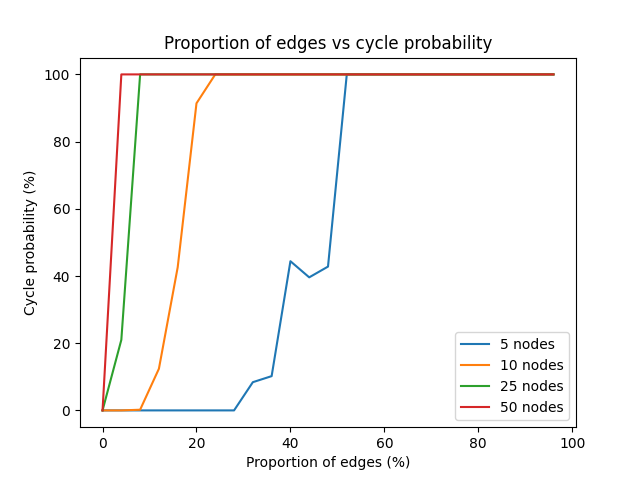
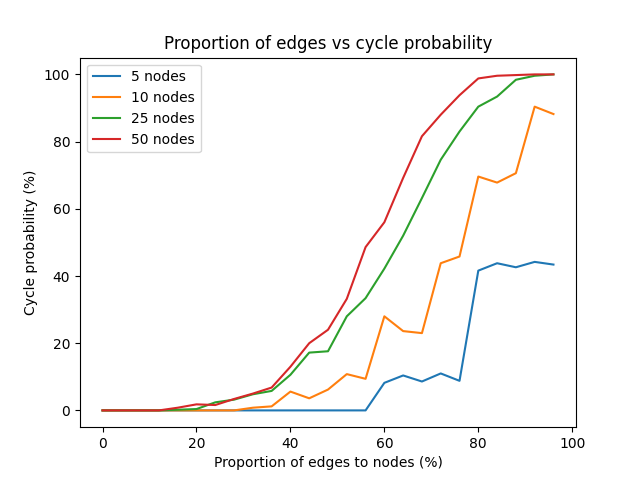
fixed experiment 2 proportions

diff --git a/report.tex b/report.tex
@@ -41,9 +41,7 @@ Experiment 2 examines the probability of a graph being connected as the proporti
 
 We compute the approximate connected probability for a graph of $e$ edges and $n$ nodes by generating 500 random graphs with $e$ edges and $n$ nodes and determining what percentage of those graphs are connected.
 
-This process is conducted for graphs with 5, 10, 25, and 50 nodes at different proportions of edges. Specifically, we start with 0 edges and gradually increase to the maximum number of unique edges for the node count ($\sum_{i=0}^{n-1}i$) in 4\% steps, with 100\% being the maximum number of edges.
-
-The result is then graphed as shown in Figure \ref{fig:edges_vs_connected} below.
+This process is conducted for graphs with 5, 10, 25, and 50 nodes at different proportions of edges. Specifically, we start with 0 edges and gradually increase to 500\% the node count in 20\% increments. The result is then graphed as shown in Figure \ref{fig:edges_vs_connected} below.
 
 \begin{figure}[H]
     \centering
@@ -52,9 +50,11 @@ The result is then graphed as shown in Figure \ref{fig:edges_vs_connected} below
     \label{fig:edges_vs_connected}
 \end{figure}
 
-As seen in Figure \ref{fig:edges_vs_connected}, each graph size sits at a 0\% chance of connectedness before rapidly increasing and eventually reaching a 100\% probability of being connected; but the transitions take place at different edge proportions.
+% this is wrong v will rewrite
 
-This is because the number of edges required to make connectedness possible grows linearly with the number of nodes, while the maximum number of unique edges grows quadratically. Specifically, an undirected graph of $n$ nodes with no self-loops requires only $n - 1$ unique edges to make connectedness possible, but can have a maximum of $\frac{(n - 1) \cdot n}{2}$ unique edges.
+% As seen in Figure \ref{fig:edges_vs_connected}, each graph size sits at a 0\% chance of connectedness before rapidly increasing and eventually reaching a 100\% probability of being connected; but the transitions take place at different edge proportions.
+
+% This is because the number of edges required to make connectedness possible grows linearly with the number of nodes, while the maximum number of unique edges grows quadratically. Specifically, an undirected graph of $n$ nodes with no self-loops requires only $n - 1$ unique edges to make connectedness possible, but can have a maximum of $\frac{(n - 1) \cdot n}{2}$ unique edges.
 
 \section{Part 2}
 

diff --git a/experiment_1.py b/experiment_1.py
@@ -1,31 +1,10 @@
 import matplotlib.pyplot as plot
 from experiment_2 import average_probabilities
-from graph import Graph, has_cycle, create_random_graph
+from graph import has_cycle
 
 NODE_CASES = [5, 10, 25, 50]
 STEPS = 25
 AVGS = 500
-
-def cycle_probability(num_nodes, proportions, avgs):
-    maximum_edges = num_nodes
-    probabilities = []
-
-    for proportion in proportions:
-        edges = int(proportion / 100 * maximum_edges)
-        outcomes = []
-
-        for _ in range(avgs):
-            G = create_random_graph(num_nodes, edges)
-            if has_cycle(G):
-                outcomes.append(100)
-            else:
-                outcomes.append(0)
-
-        probabilities.append(outcomes)
-        print(f"Completed {edges} edges with {num_nodes} nodes ({proportion}%)")
-
-    return [sum(p) / avgs for p in probabilities]
-
 
 if __name__ == "__main__":
     proportions = list(range(0, 100, 100 // STEPS))
@@ -33,12 +12,12 @@ if __name__ == "__main__":
     for num_nodes in NODE_CASES:
         plot.plot(
             proportions,
-            cycle_probability(num_nodes, proportions, AVGS),
+            average_probabilities(num_nodes, proportions, AVGS, has_cycle),
             label=f"{num_nodes} nodes"
         )
 
     plot.title("Proportion of edges vs cycle probability")
     plot.ylabel("Cycle probability (%)")
-    plot.xlabel("Proportion of edges (%)")
+    plot.xlabel("Proportion of edges to nodes (%)")
     plot.legend()
     plot.show()

diff --git a/experiment_2.py b/experiment_2.py
@@ -12,11 +12,11 @@ def average_probabilities(
     avgs: int,
     func: Callable[[Graph], bool]
 ) -> List[float]:
-    maximum_edges = max_unique_edges(num_nodes)
+    max_edges = max_unique_edges(num_nodes)
     probabilities = []
 
     for proportion in proportions:
-        edges = int(proportion / 100 * maximum_edges)
+        edges = min(int(proportion / 100 * num_nodes), max_edges)
         outcomes = []
 
         for _ in range(avgs):
@@ -33,7 +33,7 @@ def average_probabilities(
 
 
 if __name__ == "__main__":
-    proportions = list(range(0, 100, 100 // STEPS))
+    proportions = list(range(0, 500, 500 // STEPS))
 
     for num_nodes in NODE_CASES:
         plot.plot(
@@ -44,6 +44,6 @@ if __name__ == "__main__":
 
     plot.title("Proportion of edges vs connected probability")
     plot.ylabel("Connected probability (%)")
-    plot.xlabel("Proportion of edges (%)")
+    plot.xlabel("Proportion of edges to nodes (%)")
     plot.legend()
     plot.show()

diff --git a/graph.py b/graph.py
@@ -197,17 +197,13 @@ def has_cycle(G):
                 marked[current_node] = True
                 # node has been visited, is connected so removed
                 nodes.remove(current_node)
-                # print("REMOVED " + str(current_node))
                 for n in G.adj[current_node]:
-                    # print(str(current_node) + "->" + str(n))
                     # if node has been visited and another node connects to it, cycle exists
                     if nodes.count(n) == 0 and preDict[current_node] != n:
-                        print(True)
                         return True
                     if not marked[n]:
                         preDict[n] = current_node
                     S.append(n)
-    print(False)
     return False
 
 #Use the methods below to determine minimum vertex covers
